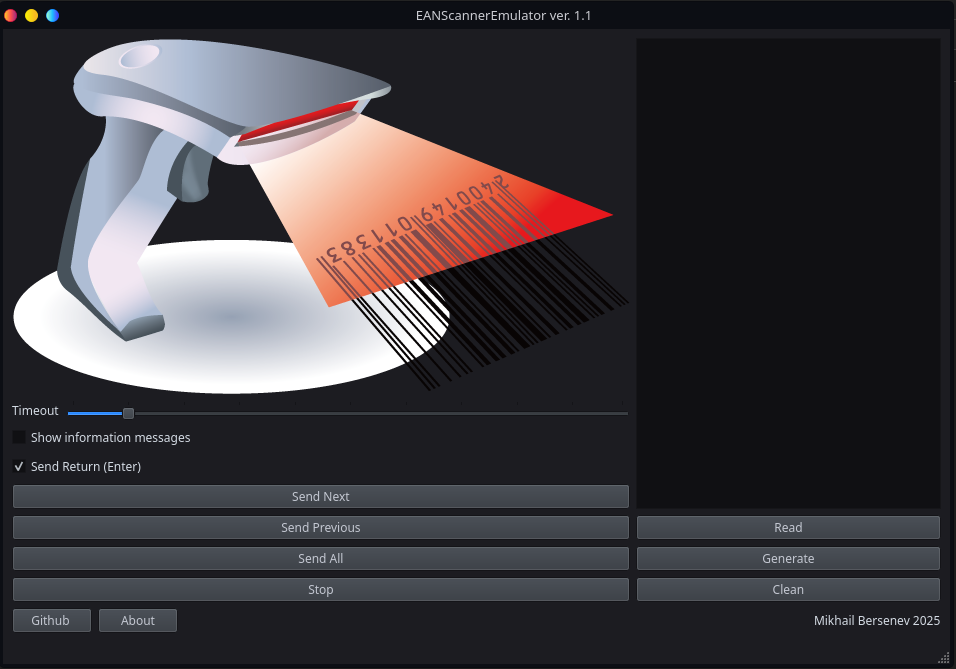
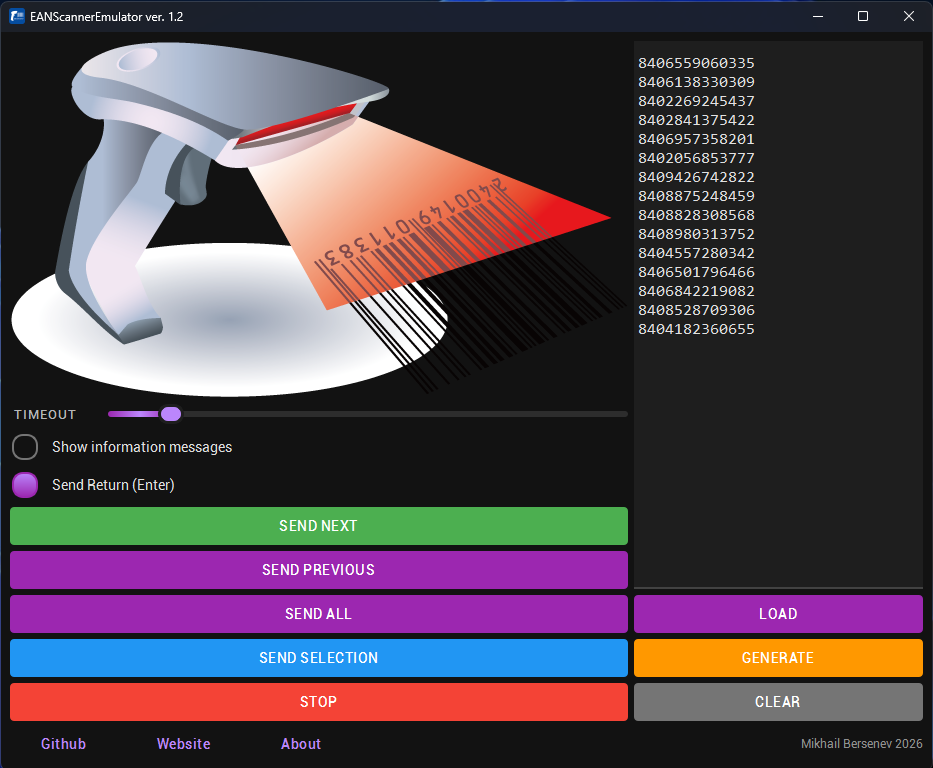
Update README.md to enhance documentation on barcode formats and sending options
- Added support for additional barcode formats: UPC-A, UPC-B, UPC-C, UPC-D, UPC-E, UPC-2, UPC-5, and GS1 DataMatrix.
- Introduced "Send Selection" feature allowing users to send highlighted text directly.
- Clarified instructions for loading barcodes and sending options.
- Included details on data file location for better user guidance.
- Added troubleshooting tips for common issues related to sending barcodes.

diff --git a/README.md b/README.md
@@ -21,17 +21,25 @@ EANScannerEmu is a powerful application that emulates a barcode scanner, allowin
 - **Multiple Format Support**: 
   - EAN-8
   - EAN-13
-  - DataMatrix (Honest Sign / Честный знак)
+  - UPC-A
+  - UPC-B
+  - UPC-C
+  - UPC-D
+  - UPC-E
+  - UPC-2
+  - UPC-5
+  - GS1 DataMatrix
+  
 - **Batch Processing**: Send multiple barcodes sequentially with configurable delays
 - **Automatic Save/Load**: Barcodes are saved to `barcodes.txt` and loaded on startup
-- **Flexible Sending**: Send next, previous, or all barcodes automatically
+- **Flexible Sending**: Send next, previous, all barcodes, or **only the text you highlighted** (Send Selection)
 - **Cross-Platform**: Works on Linux (X11/Wayland) and Windows
 
 ## Quick Start
 
 1. **Enter Barcodes**: Type or paste barcodes into the text field (one per line)
-2. **Load**: Click "Read" to load barcodes and save to file
-3. **Send**: Use "Send Next", "Send Previous", or "Send All" to input barcodes
+2. **Load**: Click "Load" to load barcodes and save to file
+3. **Send**: Use "Send Next", "Send Previous", or "Send All" to input barcodes; or **"Send Selection"** to type whatever you highlighted in the text field (see below)
 4. **Generate**: Click "Generate" to create random barcodes of selected type
 
 
@@ -39,13 +47,35 @@ EANScannerEmu is a powerful application that emulates a barcode scanner, allowin
 
 - **Timeout Slider**: Adjust delay between barcode sends (0-60 seconds)
 - **Send Return**: Enable automatic Enter key after each barcode
+- **Send Selection**: In the barcode text field, **select (highlight) the characters** you want to inject, then click **"Send Selection"**. The app sends that string as keystrokes (and **Enter** after it if **Send Return** is checked). You do **not** need to press **Load** first—only a non-empty selection matters. If your selection spans **multiple lines**, only the **first non-empty line** is sent (leading/trailing spaces on that line are trimmed). Sending runs after the **Timeout** delay, same as batch sends—use it to switch focus to the target window.
 - **Auto-Load**: Barcodes from `barcodes.txt` are automatically loaded on startup
 - **Clean**: Clears all barcodes and deletes the save file
 
+## Data File Location
+
+The app reads/writes the barcode list in the user's **home directory** as `barcodes.txt`.
+
+Typical locations:
+
+- **Linux**: `~/barcodes.txt`
+- **Windows**: `C:\Users\<YourUser>\barcodes.txt`
+- **macOS**: `/Users/<YourUser>/barcodes.txt`
+
 ## Supported Formats
 
-| Format | Description | Length |
-|--------|-------------|--------|
+### Sending (emulation)
+
+The app sends text as keyboard input. In practice, you can send:
+
+- Any barcode string you paste/type into the list
+- Any highlighted text via **Send Selection**
+
+No strict barcode validation is enforced at send time.
+
+### Built-in generator
+
+| Format | Description | Generated length |
+|--------|-------------|------------------|
 | EAN-8 | European Article Number 8 | 8 digits |
 | EAN-13 | European Article Number 13 | 13 digits |
 
@@ -55,6 +85,10 @@ EANScannerEmu is a powerful application that emulates a barcode scanner, allowin
 - **Linux Wayland**: Requires `ydotool` for keyboard emulation
 - **Windows**: Native support via Windows API
 - **macOS**: Native support via Quartz Event Services (ApplicationServices, Carbon). For sending keystrokes to other apps, grant **Input Monitoring** (or **Accessibility**) permission in **System Settings → Privacy & Security** when prompted.
+
+### Wayland Notes
+
+On Wayland, install `ydotool` and ensure its daemon is running (distribution-specific service name). If `ydotool` is not available, sending barcodes will fail.
 
 ## Building
 
@@ -74,3 +108,10 @@ This project is licensed under the GNU General Public License v3.0 - see the [LI
 ---
 
 **Note**: This tool is intended for legitimate testing and development purposes only.
+
+## Troubleshooting (Quick)
+
+- **Nothing is typed into the target app**: Focus the target window before pressing send (after the **Timeout** delay if you use **Send Selection** or batch send).
+- **Send Selection does nothing / warning about selection**: Highlight at least one non-whitespace character in the barcode field; empty or whitespace-only selection is rejected.
+- **Wayland send does not work**: Verify `ydotool` is installed and the daemon is active.
+- **No auto-loaded barcodes on startup**: Check whether `barcodes.txt` exists in your home directory.
